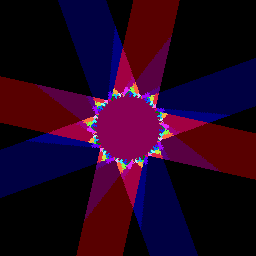
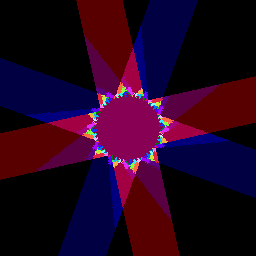
Flip CPU renderer Y Axis (#314)

diff --git a/src/computer.rs b/src/computer.rs
@@ -209,7 +209,8 @@ impl Computer {
       Matrix3::identity()
         .append_translation(&Vector2::from_element(0.5))
         .append_scaling(2.0 / self.size() as f64)
-        .append_translation(&Vector2::from_element(-1.0)),
+        .append_translation(&Vector2::from_element(-1.0))
+        .append_nonuniform_scaling(&Vector2::new(1.0, -1.0)),
     )
   }
 }

diff --git a/src/mask.rs b/src/mask.rs
@@ -32,7 +32,7 @@ impl Mask {
       }
       Self::Rows { nrows, step } => pixel.y as u32 % (nrows.saturating_add(*step)) < *nrows,
       Self::Square => v.coords.abs() < Vector2::new(0.5, 0.5),
-      Self::Top => v.y < 0.0,
+      Self::Top => v.y > 0.0,
       Self::X => (v.x - v.y).abs() < 0.25 || (v.x + v.y).abs() < 0.25,
     }
   }
